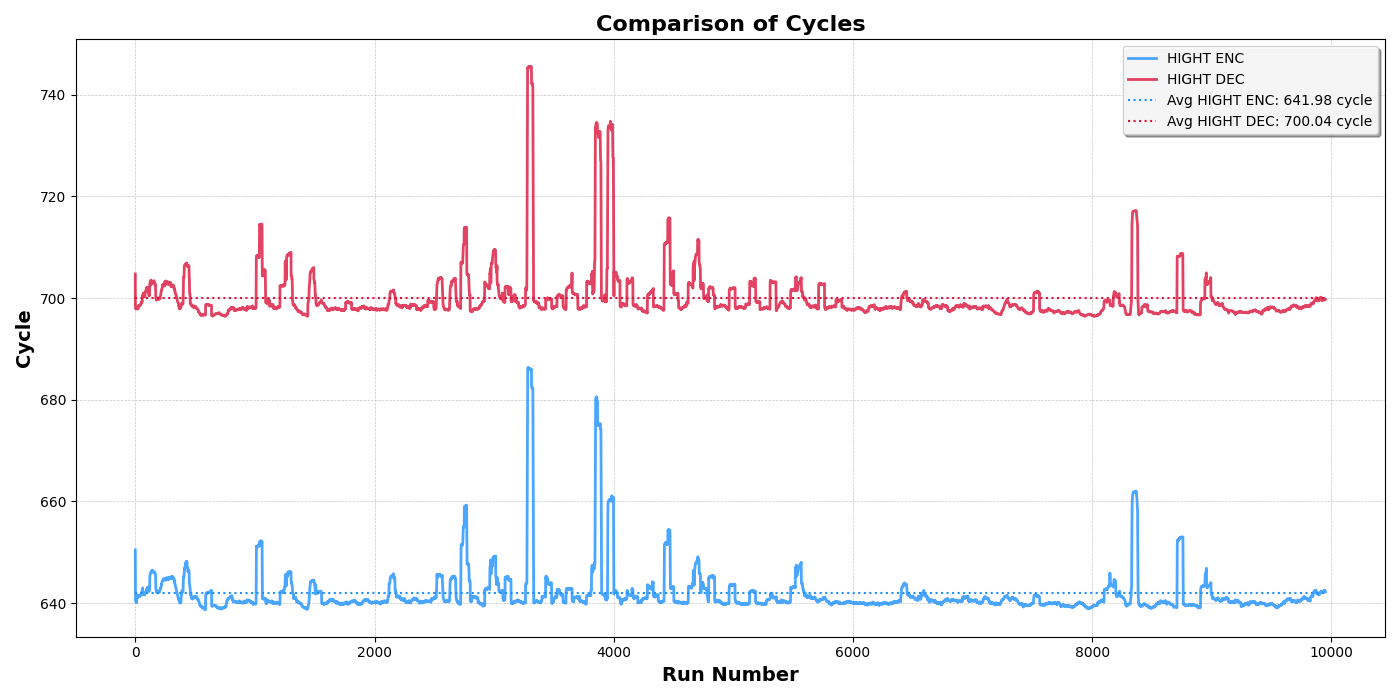
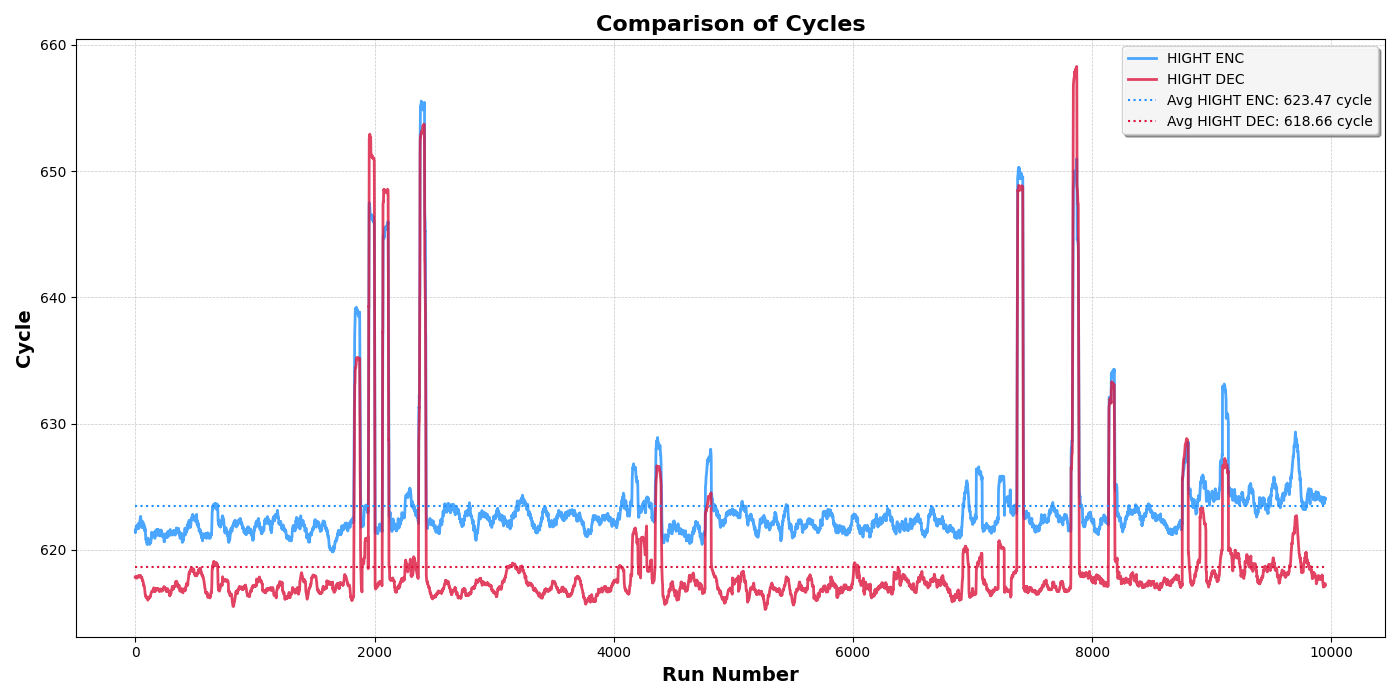
Laptop240220v1 - Optimization

diff --git a/src/hight_core.c b/src/hight_core.c
@@ -15,20 +15,20 @@ void encKeySchedule(u8 enc_WK[8], u8 enc_SK[128], const u8 MK[16]) {
     enc_WK[6] = MK[2];
     enc_WK[7] = MK[3];
 
-    u8 delta[128] = { 0x00, };
-    u8 state = 0b01011010; // 0x5a
+    // u8 delta[128] = { 0x00, };
+    // u8 state = 0b01011010; // 0x5a
 
-    delta[0] = state;
+    // delta[0] = state;
     
-    // Generate δ array and subkeys without s array
-    for (i = 1; i < 128; i++) {
-        bool new_bit = ((delta[i-1] >> 3) & 0x01) ^ (delta[i-1] & 0x01);
-        state = (u8)(new_bit << 7) | (u8)(delta[i-1] & 0x7F);
-        state >>= 1;
+    // // Generate δ array and subkeys without s array
+    // for (i = 1; i < 128; i++) {
+    //     bool new_bit = ((delta[i-1] >> 3) & 0x01) ^ (delta[i-1] & 0x01);
+    //     state = (u8)(new_bit << 7) | (u8)(delta[i-1] & 0x7F);
+    //     state >>= 1;
 
-        // Assign the new value to delta[i] using the updated state
-        delta[i] = state & 0x7F;
-    }
+    //     // Assign the new value to delta[i] using the updated state
+    //     delta[i] = state & 0x7F;
+    // }
 
 
     // u8 delta[128] = { 0x00, };
@@ -48,9 +48,9 @@ void encKeySchedule(u8 enc_WK[8], u8 enc_SK[128], const u8 MK[16]) {
 
     for (i = 0; i < 8; i++) {
         for (j = 0; j < 8; j++)
-            enc_SK[16 * i + j + 0] = MK[((j - i) & 7) + 0] + delta[16 * i + j + 0];
+            enc_SK[16 * i + j + 0] = MK[((j - i) & 7) + 0] + delta_table[16 * i + j + 0];
         for (j = 0; j < 8; j++)
-            enc_SK[16 * i + j + 8] = MK[((j - i) & 7) + 8] + delta[16 * i + j + 8];
+            enc_SK[16 * i + j + 8] = MK[((j - i) & 7) + 8] + delta_table[16 * i + j + 8];
     }
 
     // for (i = 0; i < 8; i++) {
@@ -70,8 +70,41 @@ void encKeySchedule(u8 enc_WK[8], u8 enc_SK[128], const u8 MK[16]) {
 }
 
 void HIGHT_Encrypt(u8 dst[8], const u8 src[8], const u8 MK[16]) {
-    u8 WK[8], SK[128];
-    encKeySchedule(WK, SK, MK);
+    u8 WK[8] = {
+        MK[12], MK[13], MK[14], MK[15],
+        MK[ 0], MK[ 1], MK[ 2], MK[ 3]
+    };
+    u8 SK[128];
+    // WK[0] = MK[12];
+    // WK[1] = MK[13];
+    // WK[2] = MK[14];
+    // WK[3] = MK[15];
+    // WK[4] = MK[0];
+    // WK[5] = MK[1];
+    // WK[6] = MK[2];
+    // WK[7] = MK[3];
+
+    // u8 delta[128] = { 0x00, };
+    // u8 rCon = 0x5a; // 0b01011010
+
+    // delta[0] = rCon;
+    
+    // // Generate δ array and subkeys without s array
+    // for (i32 i = 1; i < 128; i++) {
+    //     bool new_bit = ((delta[i-1] >> 3) & 0x01) ^ (delta[i-1] & 0x01);
+    //     rCon = (u8)(new_bit << 7) | (u8)(delta[i-1] & 0x7F);
+    //     rCon >>= 1;
+
+    //     // Assign the new value to delta[i] using the updated state
+    //     delta[i] = rCon & 0x7F;
+    // }
+
+    for (u8 i = 0; i < 8; i++) {
+        for (u8 j = 0; j < 8; j++)
+            SK[16 * i + j + 0] = MK[((j - i) & 7) + 0] + delta_table[16 * i + j + 0];
+        for (u8 j = 0; j < 8; j++)
+            SK[16 * i + j + 8] = MK[((j - i) & 7) + 8] + delta_table[16 * i + j + 8];
+    }
 
     u8 state[8];
     memcpy(state, src, 8);
@@ -147,32 +180,68 @@ void decKeySchedule(u8 dec_WK[8], u8 dec_SK[128], const u8 MK[16]) {
     dec_WK[6] = MK[2];
     dec_WK[7] = MK[3];
 
-    u8 delta[128] = { 0x00, };
-    u64 state = 0b01011010; // 0x5a
+    // u8 delta[128] = { 0x00, };
+    // u8 state = 0b01011010; // 0x5a
 
-    delta[0] = state;
+    // delta[0] = state;
     
-    // Generate δ array and subkeys without s array
-    for (i = 1; i < 128; i++) {
-        u8 new_bit = ((delta[i-1] >> 3) & 0x01) ^ (delta[i-1] & 0x01);
-        state = (u8)(new_bit << 7) | (u8)(delta[i-1] & 0x7F);
-        state >>= 1;
+    // // Generate δ array and subkeys without s array
+    // for (i = 1; i < 128; i++) {
+    //     u8 new_bit = ((delta[i-1] >> 3) & 0x01) ^ (delta[i-1] & 0x01);
+    //     state = (u8)(new_bit << 7) | (u8)(delta[i-1] & 0x7F);
+    //     state >>= 1;
 
-        // Assign the new value to delta[i] using the updated state
-        delta[i] = state & 0x7F;
-    }
+    //     // Assign the new value to delta[i] using the updated state
+    //     delta[i] = state & 0x7F;
+    // }
 
     for (i = 7; i >= 0; i--) {
         for (j = 7; j >= 0; j--)
-            dec_SK[127 - (16 * i + j + 8)] = MK[((j - i) & 7) + 8] + delta[16 * i + j + 8];
+            dec_SK[127 - (16 * i + j + 8)] = MK[((j - i) & 7) + 8] + delta_table[16 * i + j + 8];
         for (j = 7; j >= 0; j--)
-            dec_SK[127 - (16 * i + j + 0)] = MK[((j - i) & 7) + 0] + delta[16 * i + j + 0];
+            dec_SK[127 - (16 * i + j + 0)] = MK[((j - i) & 7) + 0] + delta_table[16 * i + j + 0];
     }
 }
 
 void HIGHT_Decrypt(u8 dst[8], const u8 src[8], const u8 MK[16]) {
-    u8 WK[8], SK[128];
-    decKeySchedule(WK, SK, MK);
+    u8 WK[8] = {
+        MK[12], MK[13], MK[14], MK[15],
+        MK[ 0], MK[ 1], MK[ 2], MK[ 3]
+    };
+    
+    u8 SK[128];
+    // decKeySchedule(WK, SK, MK);
+
+    // WK[0] = MK[12];
+    // WK[1] = MK[13];
+    // WK[2] = MK[14];
+    // WK[3] = MK[15];
+    // WK[4] = MK[0];
+    // WK[5] = MK[1];
+    // WK[6] = MK[2];
+    // WK[7] = MK[3];
+
+    // u8 delta[128] = { 0x00, };
+    // u8 rCon = 0x5a;
+
+    // delta[0] = rCon;
+    
+    // // Generate δ array and subkeys without s array
+    // for (u8 i = 1; i < 128; i++) {
+    //     u8 new_bit = ((delta[i-1] >> 3) & 0x01) ^ (delta[i-1] & 0x01);
+    //     rCon = (u8)(new_bit << 7) | (u8)(delta[i-1] & 0x7F);
+    //     rCon >>= 1;
+
+    //     // Assign the new value to delta[i] using the updated state
+    //     delta[i] = rCon & 0x7F;
+    // }
+
+    for (i8 i = 7; i >= 0; i--) {
+        for (i8 j = 7; j >= 0; j--)
+            SK[127 - (16 * i + j + 8)] = MK[((j - i) & 7) + 8] + delta_table[16 * i + j + 8];
+        for (i8 j = 7; j >= 0; j--)
+            SK[127 - (16 * i + j + 0)] = MK[((j - i) & 7) + 0] + delta_table[16 * i + j + 0];
+    }
 
     u8 state[8] = { 0x00, };
     memcpy(state, src, 8);

diff --git a/include/hight_utils.h b/include/hight_utils.h
@@ -4,31 +4,48 @@
 #define _HIGHT_UTILS_H
 
 // Read Time-Stamp Counter
-static inline u64 rdtsc(void) {
-    u32 lo, hi;
+// static inline u64 rdtsc(void) {
+//     u32 lo, hi;
     
-    __asm__ __volatile__ (
-      "rdtsc" : "=a" (lo), "=d" (hi)
-    );
+//     __asm__ __volatile__ (
+//       "rdtsc" : "=a" (lo), "=d" (hi)
+//     );
     
-    return ((u64)hi << 32) | lo;
+//     return ((u64)hi << 32) | lo;
+// }
+
+static inline void assign_rand(u8* dst, size_t wordLen) {
+    // Cast the destination pointer to a pointer to u8 (unsigned 8-bit integer)
+    u8* p = (u8*)dst;
+    
+    // Calculate the total number of bytes to be filled
+    u32 cnt = wordLen * sizeof(u8);
+
+    // Loop until all bytes are filled
+    while (cnt > 0) {
+        *p = rand() & 0xff; // Assign a random byte (0 to 255) to the current location pointed by p
+        p++;                // Move to the next byte
+        cnt--;
+    }
 }
 
 void stringToByte(u8* byteArray, const char* hexString);
 
-u64 measure_keySchedule_cycle(void (*func)(u8*, u8*, const u8*), u8* WK, u8* SK, const u8* MK);
-double measure_keySchedule_time(void (*func)(u8*, u8*, const u8*), u8* WK, u8* SK, const u8* MK);
+u64 measure_cycles(void (*func)(u8*, const u8*, const u8*), u8* dst, const u8* src, const u8* MK);
 
-u64 measure_encryption_cycle(void (*func)(u8*, const u8*, const u8*), u8* dst, const u8* src, const u8* MK);
-double measure_encryption_time(void (*func)(u8*, const u8*, const u8*), u8* dst, const u8* src, const u8* MK);
+// u64 measure_keySchedule_cycle(void (*func)(u8*, u8*, const u8*), u8* WK, u8* SK, const u8* MK);
+// double measure_keySchedule_time(void (*func)(u8*, u8*, const u8*), u8* WK, u8* SK, const u8* MK);
 
-void measure_cpu_time(void (*func)(u8*, const u8*, const u8*), u8* dst, const u8* src, const u8* MK);
-void measure_memory_usage(void (*func)(u8*, const u8*, const u8*), u8* dst, const u8* src, const u8* MK);
+// u64 measure_encryption_cycle(void (*func)(u8*, const u8*, const u8*), u8* dst, const u8* src, const u8* MK);
+// double measure_encryption_time(void (*func)(u8*, const u8*, const u8*), u8* dst, const u8* src, const u8* MK);
 
-void* custom_malloc(size_t size);
-void custom_free(void* ptr, size_t size);
-void start_stack_measure();
-size_t end_stack_measure();
-void measure_total_memory_usage(void (*func)(u8*, const u8*, const u8*), u8* dst, const u8* src, const u8* MK);
+// void measure_cpu_time(void (*func)(u8*, const u8*, const u8*), u8* dst, const u8* src, const u8* MK);
+// void measure_memory_usage(void (*func)(u8*, const u8*, const u8*), u8* dst, const u8* src, const u8* MK);
+
+// void* custom_malloc(size_t size);
+// void custom_free(void* ptr, size_t size);
+// void start_stack_measure();
+// size_t end_stack_measure();
+// void measure_total_memory_usage(void (*func)(u8*, const u8*, const u8*), u8* dst, const u8* src, const u8* MK);
 
 #endif /* _HIGHT_UTILS_H */

diff --git a/src/main.c b/src/main.c
@@ -9,7 +9,7 @@ void viewKeySchedule(u8* SK) {
 }
 
 int main(void) {
-
+#if 1
     // const char* keyString = "00112233445566778899aabbccddeeff"; // Test Vector 1
     // const char* keyString = "ffeeddccbbaa99887766554433221100"; // Test Vector 2
     // const char* keyString = "000102030405060708090a0b0c0d0e0f"; // Test Vector 3
@@ -29,22 +29,36 @@ int main(void) {
     u8 myPT[8] = { 0x00, };
     HIGHT_Encrypt(CT, PT, MK);
     HIGHT_Decrypt(myPT, CT, MK);
-    for (int i = 7; i >= 0; i--) {
-        printf("%02x:", PT[i]);
-    } puts("");
-    for (int i = 7; i >= 0; i--) {
-        printf("%02x:", CT[i]);
-    } puts("");
-    for (int i = 7; i >= 0; i--) {
-        printf("%02x:", myPT[i]);
-    } puts("");
 
-    measure_cpu_time(HIGHT_Encrypt, CT, PT, MK);
-    measure_cpu_time(HIGHT_Decrypt, CT, PT, MK);
+    u64 enc_cycles, dec_cycles;
+    for (u32 i = 0; i < 12000; i++) {
+        assign_rand(MK, 16);
+        assign_rand(PT, 8);
+        enc_cycles = measure_cycles(HIGHT_Encrypt, CT, PT, MK);
+        dec_cycles = measure_cycles(HIGHT_Decrypt, myPT, PT, MK);
+        if (i >= 1000 && i < 11000) {
+            printf("%" PRIu64 "\n", enc_cycles);
+            printf("%" PRIu64 "\n", dec_cycles);
+            // printf("%llu\n", (long long)cycles / (long long)SIZE);
+        }
+    }
+    // for (int i = 7; i >= 0; i--) {
+    //     printf("%02x:", PT[i]);
+    // } puts("");
+    // for (int i = 7; i >= 0; i--) {
+    //     printf("%02x:", CT[i]);
+    // } puts("");
+    // for (int i = 7; i >= 0; i--) {
+    //     printf("%02x:", myPT[i]);
+    // } puts("");
 
-    measure_memory_usage(HIGHT_Encrypt, CT, PT, MK);
-    measure_memory_usage(HIGHT_Decrypt, CT, PT, MK);
-    measure_total_memory_usage(HIGHT_Decrypt, CT, PT, MK);
+    // measure_cpu_time(HIGHT_Encrypt, CT, PT, MK);
+    // measure_cpu_time(HIGHT_Decrypt, CT, PT, MK);
+
+    // measure_memory_usage(HIGHT_Encrypt, CT, PT, MK);
+    // measure_memory_usage(HIGHT_Decrypt, CT, PT, MK);
+    // measure_total_memory_usage(HIGHT_Decrypt, CT, PT, MK);
+#endif
 #if 0
     printf("KEY = ");
     for (int i = 15; i >= 0; i--) {
@@ -84,9 +98,9 @@ int main(void) {
 
     // for (int i = 0; i < 8; i++) {
     //     for (int j = 0; j < 8; j++)
-    //         printf("SK[%d] = MK[%d] + delta[%d]\n", 16 * i + j + 0, ((j - i) & 7) + 0, 16 * i + j + 0);
+    //         printf("SK[%03d] = MK[%02d] + delta[%03d]\n", 16 * i + j + 0, ((j - i) & 7) + 0, 16 * i + j + 0);
     //     for (int j = 0; j < 8; j++)
-    //         printf("SK[%d] = MK[%d] + delta[%d]\n", 16 * i + j + 8, ((j - i) & 7) + 8, 16 * i + j + 8);
+    //         printf("SK[%03d] = MK[%02d] + delta[%03d]\n", 16 * i + j + 8, ((j - i) & 7) + 8, 16 * i + j + 8);
     // }
 
     // puts("");

diff --git a/src/hight_utils.c b/src/hight_utils.c
@@ -7,6 +7,26 @@ void stringToByte(u8* byteArray, const char* hexString) {
     }
 }
 
+u64 measure_cycles(void (*func)(u8*, const u8*, const u8*), u8* dst, const u8* src, const u8* MK) {
+    u32 ui;
+    u64 start, end;
+    const u64 num = 10000;
+    func(dst, src, MK);
+
+    // Measure the start time
+    start = __rdtscp(&ui); // Serializing read of time stamp counter
+
+    // Execute the function being measured
+    for (u64 i = 0; i < num; i++)
+        func(dst, src, MK);
+
+    // Measure the end time
+    end = __rdtscp(&ui); // Another serializing read
+
+    return (end - start) / num; // Return the difference, which is the cycle count
+}
+
+#if 0
 u64 measure_keySchedule_cycle(void (*func)(u8*, u8*, const u8*), u8* WK, u8* SK, const u8* MK) {
     u64 start, end;
     const u64 num_runs = 10000;
@@ -157,3 +177,4 @@ void measure_total_memory_usage(void (*func)(u8*, const u8*, const u8*), u8* dst
     printf("Total memory used: Static = %zu, Dynamic = %zu, Stack = %zu, Total = %zu bytes\n", 
             static_memory, dynamic_memory, stack_memory, total_memory);
 }
+#endif

diff --git a/include/hight.h b/include/hight.h
@@ -26,16 +26,22 @@ void encKeySchedule(u8 enc_WK[8], u8 enc_SK[128], const u8 MK[16]);
 void decKeySchedule(u8 dec_WK[8], u8 dec_SK[128], const u8 MK[16]);
 void keySchedule_Dev(u8 WK[8], u8 SK[128], const u8 MK[16]);
 
-static inline u8 ROTL(u8 byte, u8 shift) {
-    return (byte << shift) | (byte >> (8 - shift));
-}
+// static inline u8 ROTL(u8 byte, u8 shift) {
+//     return (byte << shift) | (byte >> (8 - shift));
+// }
 
 static inline u8 F0(u8 byte) {
-    return ROTL(byte, 1) ^ ROTL(byte, 2) ^ ROTL(byte, 7);
+    // ROTL(byte, 1) ^ ROTL(byte, 2) ^ ROTL(byte, 7);
+    return ((byte << 1) | (byte >> 7)) ^
+           ((byte << 2) | (byte >> 6)) ^
+           ((byte << 7) | (byte >> 1));
 }
 
 static inline u8 F1(u8 byte) {
-    return ROTL(byte, 3) ^ ROTL(byte, 4) ^ ROTL(byte, 6);
+    // return ROTL(byte, 3) ^ ROTL(byte, 4) ^ ROTL(byte, 6);
+    return ((byte << 3) | (byte >> 5)) ^
+           ((byte << 4) | (byte >> 4)) ^
+           ((byte << 6) | (byte >> 2));
 }
 
 void HIGHT_Encrypt(u8 dst[8], const u8 src[8], const u8 MK[16]);

diff --git a/include/hight_config.h b/include/hight_config.h
@@ -7,7 +7,10 @@
 #include <stdbool.h>
 #include <time.h>
 #include <sys/resource.h>
+#include <inttypes.h>
+#include <ctype.h>
 #include <unistd.h>
+#include <x86intrin.h>
 
 #ifndef _HIGHT_CONFIG_H
 #define _HIGHT_CONFIG_H
